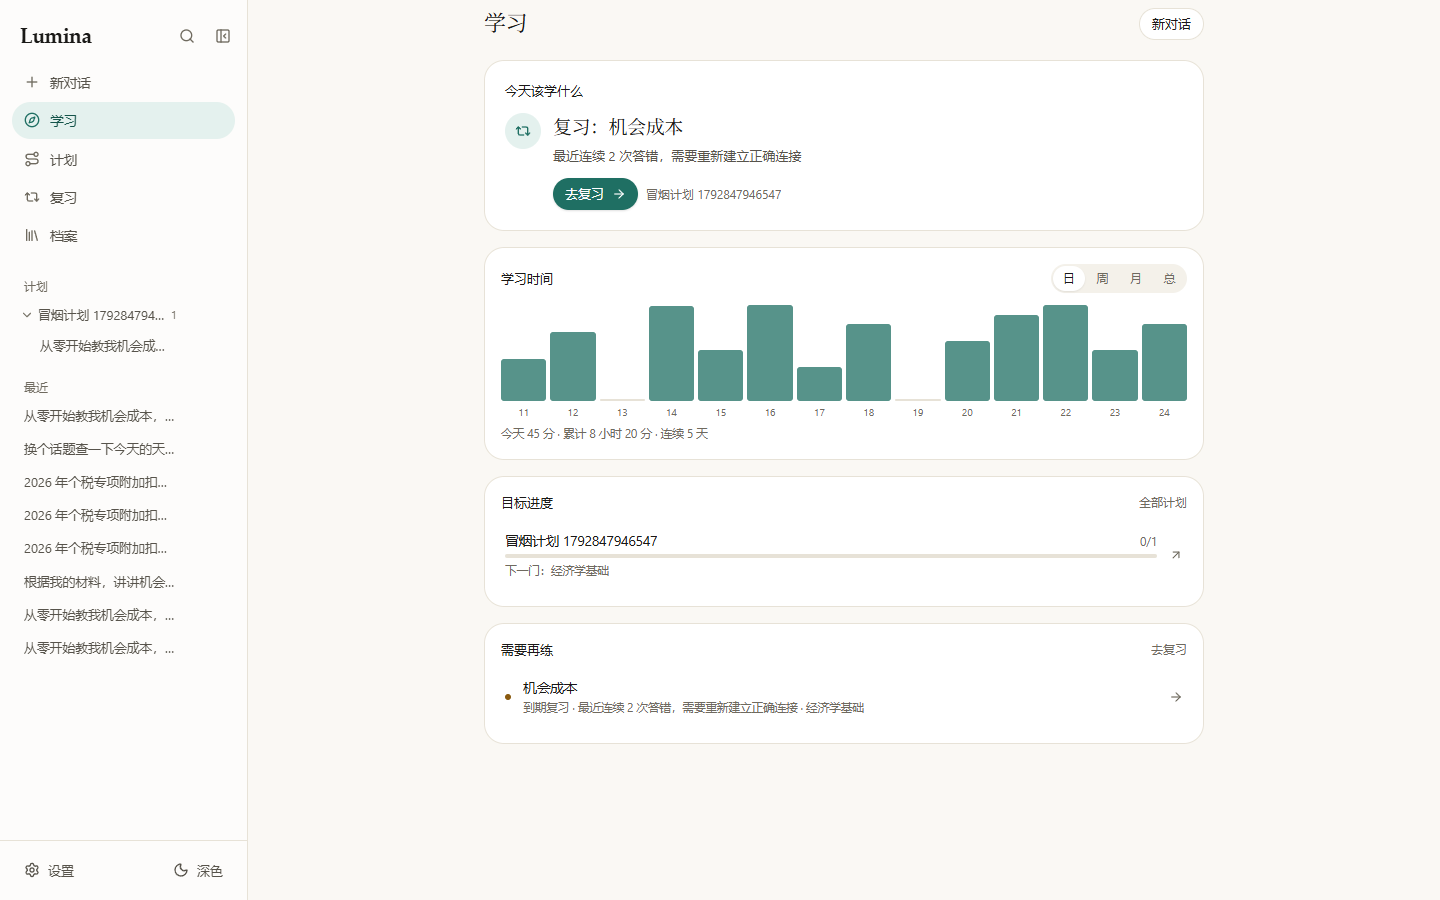
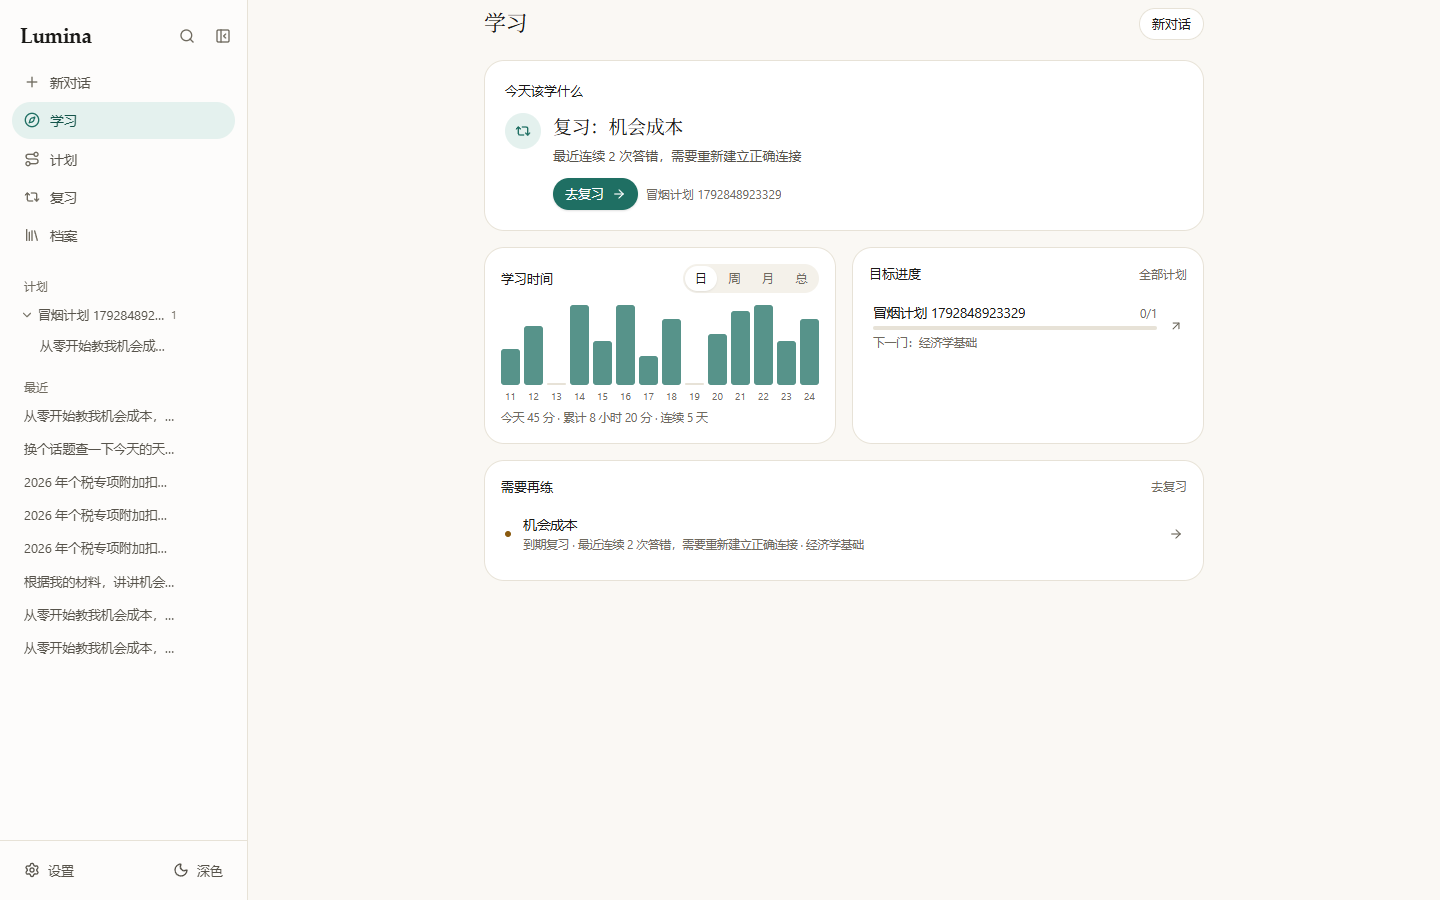
fix(学习页): 布局优化——宽屏两列、空态收窄、窄屏不再横向溢出
- 宽屏（lg）改两列：今天该学什么占整行，学习时间与目标进度并排，
  需要再练整行收尾；1440×900 下文档高从 990px 降到 900px，首屏放得下
- 空态收窄：目标进度 / 需要再练的空态从大块虚线框压成一行（文案 + 按钮），
  需要再练卡片 262px → 102px
- 学习时间卡在栅格里撑满行高，柱状图占剩余空间底部对齐，与目标进度卡等高
- 窄屏修横向溢出：栅格改用显式 grid-cols-1（minmax(0,1fr)），
  390px 宽下原来被撑到 443px，现在无横向滚动

验证：tsc 0；build 通过（BUILD_ID i77n-7gnuGWTNDEhkcsnn）并重启 3210；
浏览器总览 107/107（新增并排/整行两条布局检查）；布局专项 13/13
（柱子数切换、并排与整行、空态高度、首屏高度、窄屏单列无溢出）；
冒烟 83/83；设置专项 45/45；单元 190/190

diff --git a/src/app/page.tsx b/src/app/page.tsx
@@ -8,13 +8,12 @@ import {
   ArrowUpRight,
   Clock,
   Repeat2,
-  Route as RouteIcon,
   Sparkles,
   Target,
   TriangleAlert,
 } from "lucide-react";
 import StudyTimeChart from "@/components/study/StudyTimeChart";
-import { Button, EmptyState, PageHeader, Spinner, cx } from "@/components/ui/kit";
+import { Button, PageHeader, Spinner, cx } from "@/components/ui/kit";
 import type { StudyOverview, TodayPlan } from "@/lib/types";
 
 function actionFor(plan: TodayPlan) {
@@ -96,9 +95,9 @@ export default function StudyPage() {
         </div>
       ) : null}
 
-      <div className="flex flex-col gap-4">
-        {/* 今天该学什么 */}
-        <section className="rounded-2xl border border-line bg-panel p-5">
+      <div className="grid grid-cols-1 gap-4 lg:grid-cols-2">
+        {/* 今天该学什么：整行，作为"现在该干什么"的主卡片 */}
+        <section className="rounded-2xl border border-line bg-panel p-5 lg:col-span-2">
           <h2 className="mb-3 text-[13px] font-medium text-ink">今天该学什么</h2>
           <div className="flex items-start gap-3">
             <TodayIcon kind={today.kind} />
@@ -164,7 +163,7 @@ export default function StudyPage() {
               })}
             </ul>
           ) : (
-            <div className="mt-2 flex flex-col items-center gap-2.5 rounded-xl border border-dashed border-line px-4 py-6 text-center">
+            <div className="mt-2 flex items-center justify-between gap-3 rounded-xl border border-dashed border-line px-3 py-2.5">
               <p className="text-[12.5px] text-ink3">还没有进行中的计划</p>
               <Button variant="secondary" size="sm" onClick={() => router.push("/new?mode=goal")}>
                 <Target className="size-3.5" />
@@ -174,8 +173,8 @@ export default function StudyPage() {
           )}
         </section>
 
-        {/* 需要再练 */}
-        <section className="rounded-2xl border border-line bg-panel p-4">
+        {/* 需要再练：整行 */}
+        <section className="rounded-2xl border border-line bg-panel p-4 lg:col-span-2">
           <div className="flex items-center justify-between gap-3">
             <h2 className="text-[13px] font-medium text-ink">需要再练</h2>
             {weakReviews ? (
@@ -211,11 +210,9 @@ export default function StudyPage() {
               ))}
             </ul>
           ) : (
-            <EmptyState
-              icon={<RouteIcon className="size-5" />}
-              title="暂时没有要补的"
-              description="做过练习、产生真实证据后，这里会列出该再练一次的知识点"
-            />
+            <p className="mt-2 rounded-xl border border-dashed border-line px-3 py-2.5 text-[12.5px] text-ink3">
+              暂时没有要补的，做过练习、有真实证据后这里会自动出现
+            </p>
           )}
         </section>
       </div>

diff --git a/src/components/study/StudyTimeChart.tsx b/src/components/study/StudyTimeChart.tsx
@@ -18,7 +18,7 @@ const RANGES: { key: Range; label: string }[] = [
 function Bars({ buckets }: { buckets: StudyTimeBucket[] }) {
   const max = Math.max(1, ...buckets.map((b) => b.seconds));
   return (
-    <div className="flex h-28 items-end gap-1">
+    <div className="flex h-full min-h-24 items-end gap-1">
       {buckets.map((b) => {
         const h = b.seconds ? Math.max(4, Math.round((b.seconds / max) * 100)) : 2;
         return (
@@ -46,7 +46,7 @@ export default function StudyTimeChart({ time }: { time: StudyTimeSummary }) {
   const empty = !time.totalSeconds;
 
   return (
-    <section className="rounded-2xl border border-line bg-panel p-4">
+    <section className="flex h-full flex-col rounded-2xl border border-line bg-panel p-4">
       <div className="flex items-center justify-between gap-3">
         <h2 className="text-[13px] font-medium text-ink">学习时间</h2>
         <div className="flex items-center gap-0.5 rounded-full bg-panel2 p-0.5">
@@ -67,7 +67,7 @@ export default function StudyTimeChart({ time }: { time: StudyTimeSummary }) {
         </div>
       </div>
 
-      <div className="mt-3">
+      <div className="mt-3 flex flex-1 flex-col justify-end">
         {range === "total" ? (
           <div className="flex items-end justify-between gap-3">
             <div>

diff --git a/docs/AUDIT_2026-10-24.md b/docs/AUDIT_2026-10-24.md
@@ -1118,3 +1118,30 @@ node scripts/audit/repro.cjs
 | 单元/集成 | **190/190**（新增 7 条：空数据、14 天窗口、周一起算、按月归档、断签连续天数、本地日期 key、时长文案） |
 | 学习页体量 | 215 字、一屏 900px、4 块 |
 | 截图 | `study-workbench.png`、`study-workbench-full.png`、`study-time-month.png`、`study-time-total.png`、`new-chat.png` |
+
+---
+
+## 24. 学习页布局优化：宽屏两列、空态收窄、窄屏不再横向溢出
+
+反馈："优化一下布局。"
+
+### 24.1 改了什么
+
+1. **宽屏两列**：今天该学什么占整行（"现在该干什么"优先），学习时间与目标进度并排，需要再练整行收尾。1440 宽下四块从原来的竖排 990px 压到 900px，首屏一屏放下
+2. **空态收窄**：目标进度、需要再练的空态从「大块虚线框 + 两行文案」压成一行（文案 + 按钮），需要再练卡片从 262px 降到 102px
+3. **图表填满行高**：学习时间卡在栅格里撑满整行，柱状图占剩余空间并底部对齐，和右侧目标进度卡等高
+4. **窄屏修横向溢出**：栅格在窄屏隐式列按 min-content 撑开，390px 宽下页面被撑到 443px。改成显式 `grid-cols-1`（`minmax(0,1fr)`）后不再溢出
+
+### 24.2 验证
+
+| 项目 | 结果 |
+|---|---|
+| `tsc --noEmit` | 0 错误 |
+| `next build` | 通过（`BUILD_ID i77n-7gnuGWTNDEhkcsnn`），3210 已重启，health 200 |
+| 浏览器总览 | **107/107**（新增：学习时间与目标进度并排、今天该学什么/需要再练占整行） |
+| 布局专项（临时库） | **13/13**：日/周/月柱子数与切换、并排与整行、需要再练空态 < 140px、1440 下文档高 ≤ 1000、390 宽四块单列、无横向滚动、无控制台错误 |
+| API 冒烟 | **83/83** |
+| 设置专项 | **45/45** |
+| 单元/集成 | **190/190** |
+| 实测几何 | 1440×900：文档高 900；今天该学什么 720×171；学习时间 / 目标进度各 352×197 同一行；需要再练 720×102；390 宽：四块同宽单列、无横向滚动 |
+| 截图 | `study-workbench.png`、`study-workbench-full.png`、`study-workbench-mobile.png`、`study-time-month.png`、`study-time-total.png` |
